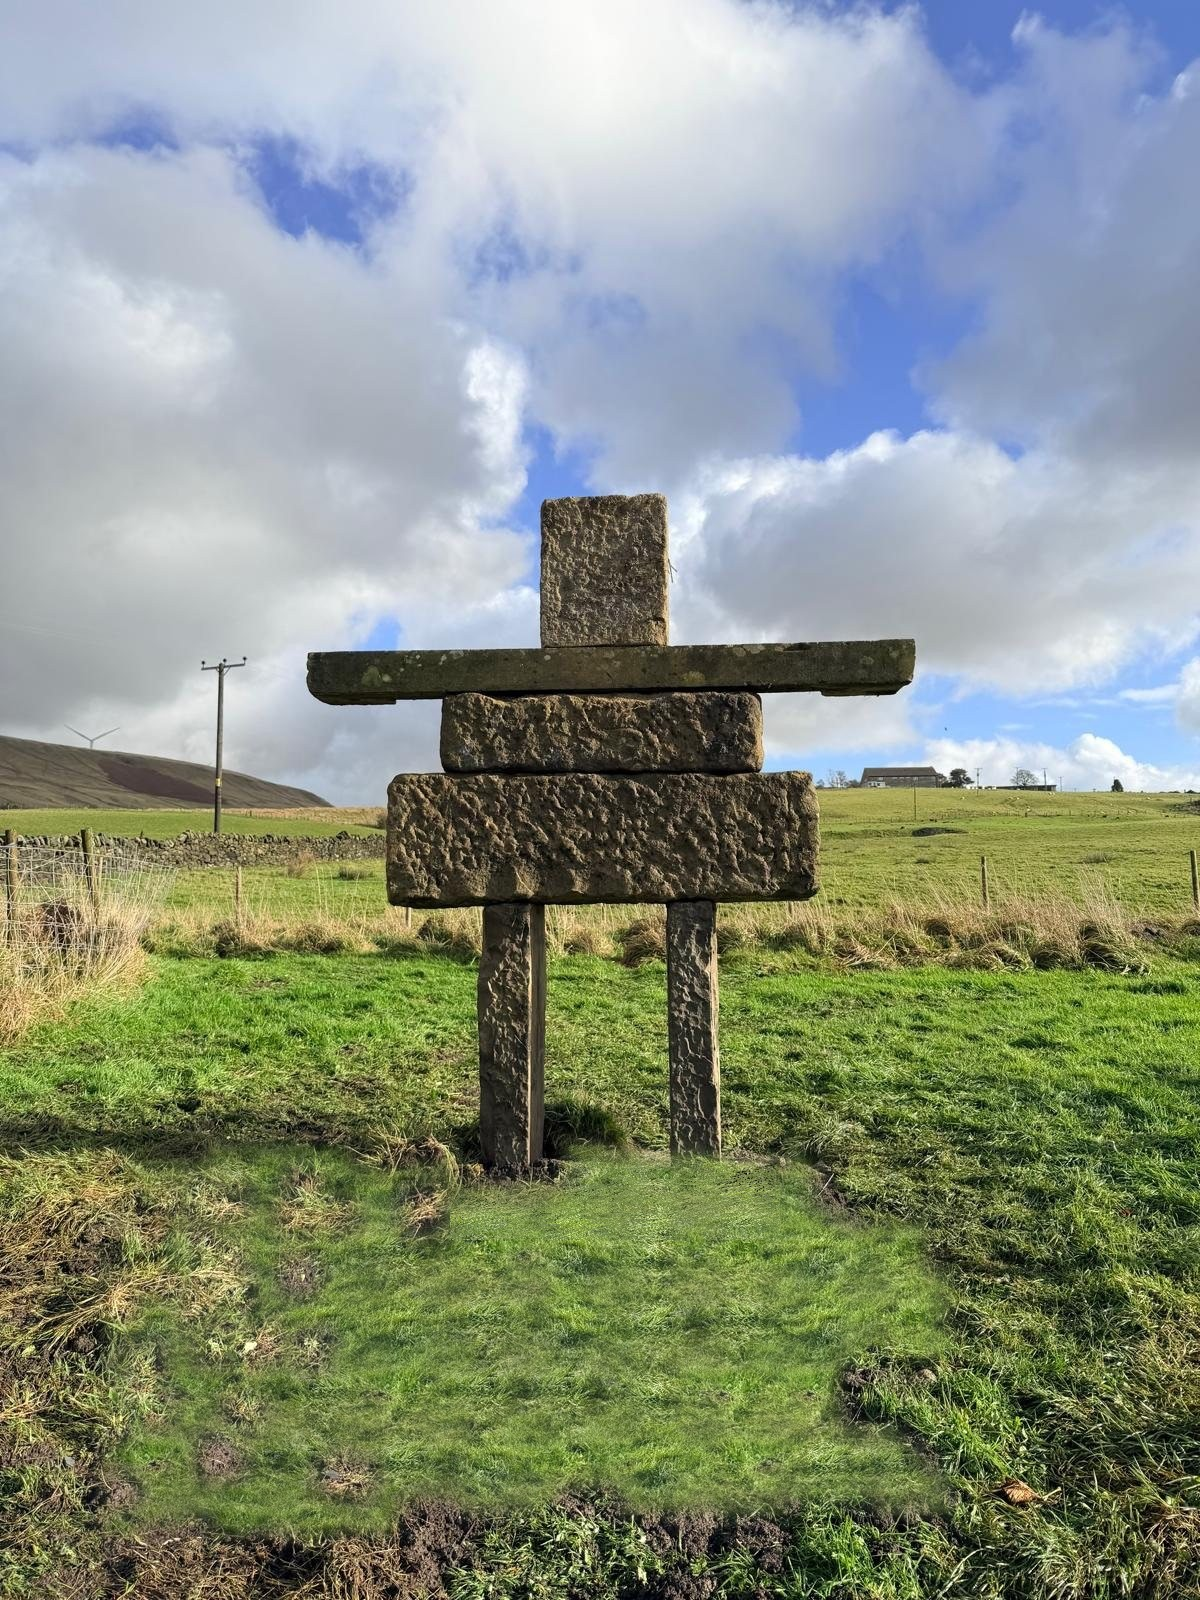
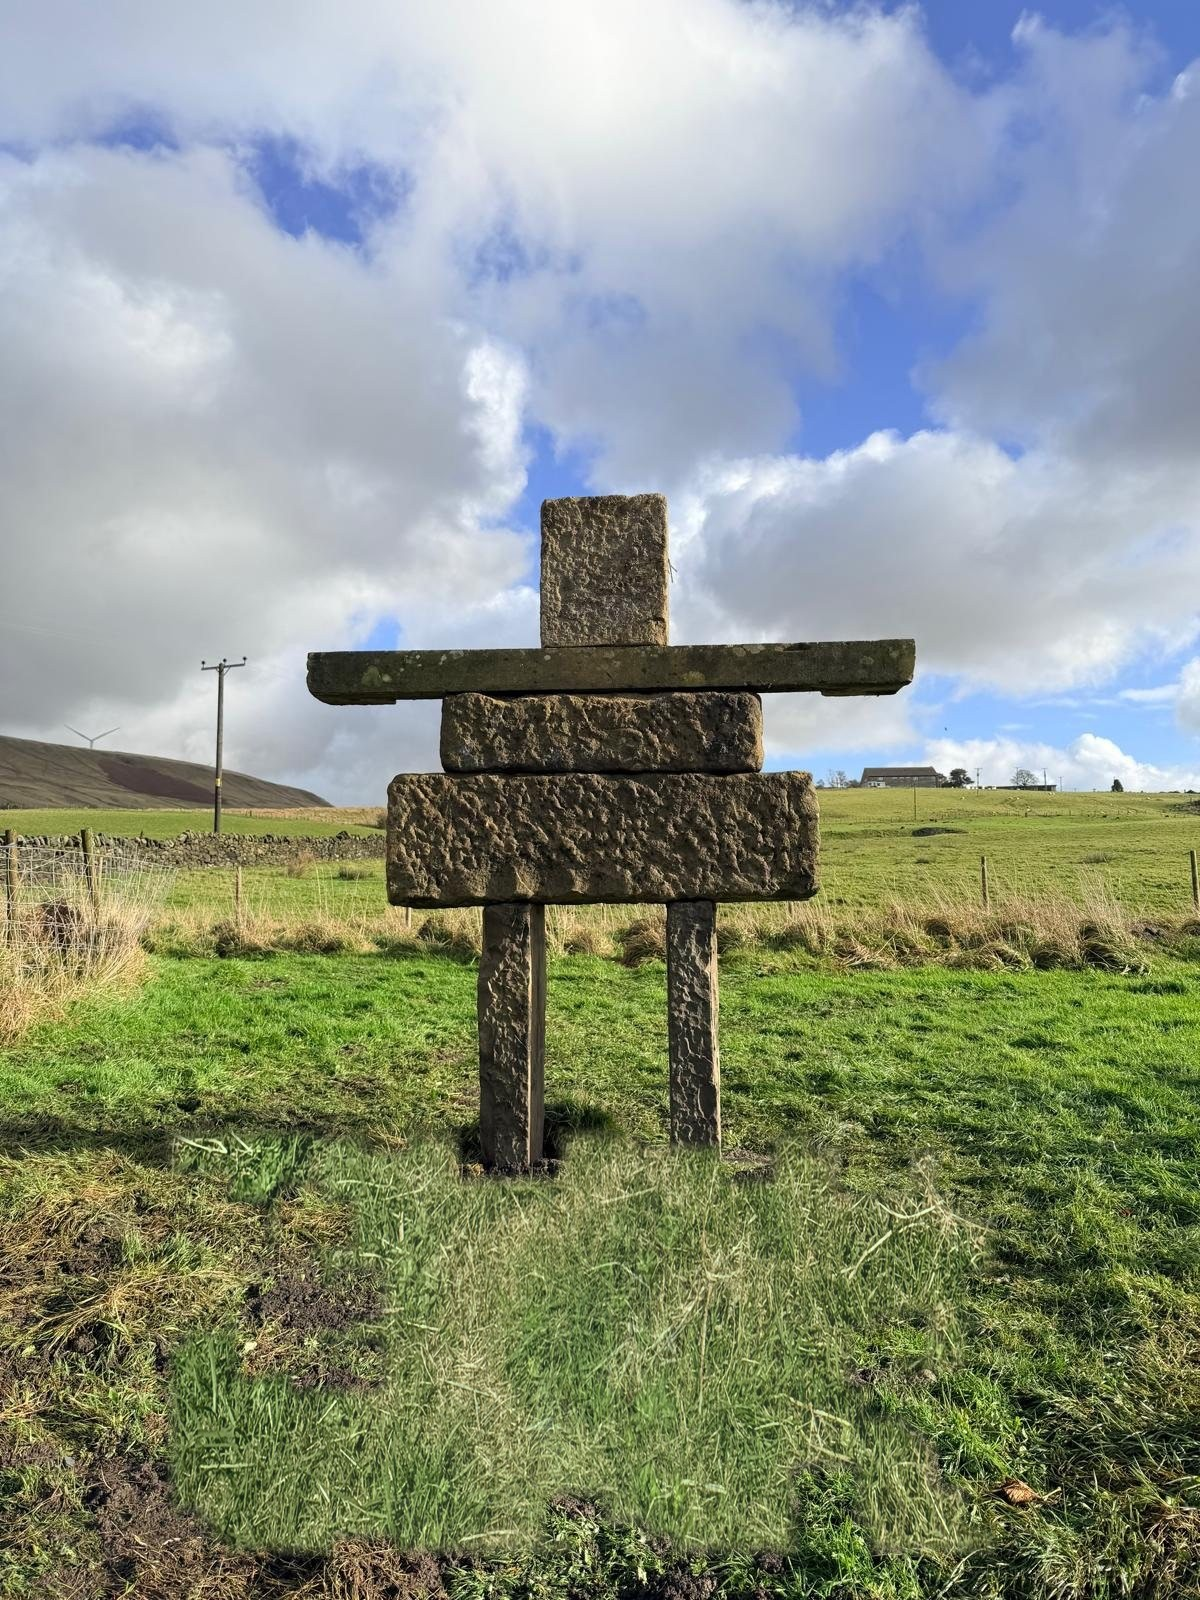
Place the figure on empty Crossbank crops and cover the front soil
Try It now opens on the mown-field crop, with the meadow crop as a second sample. Neither photo is stretched. The front photograph's turned soil is covered with grass texture from the ground-only crop, matched to the lawn light around the posts.

Changed region(s): [[0.0925, 0.6875, 0.8325, 0.9688]]

diff --git a/legacy-static/index.html b/legacy-static/index.html
@@ -265,7 +265,7 @@
       transition: background 0.2s, color 0.2s, transform 0.2s;
     }
     .upload-action:hover, .viz-button:hover { background: var(--earth); color: var(--white); transform: translateY(-1px); }
-    .viz-button.primary { background: var(--earth); color: var(--white); }
+    .viz-button[aria-pressed="true"], .viz-button.primary { background: var(--earth); color: var(--white); }
     .viz-button.primary:hover { background: var(--sky); }
     .visually-hidden { position: absolute; width: 1px; height: 1px; overflow: hidden; clip: rect(0 0 0 0); white-space: nowrap; }
     .size-options { display: grid; gap: 0.5rem; border: 0; padding: 0; }
@@ -675,7 +675,7 @@
   <section class="visualizer" id="visualizer">
     <div class="container">
       <h2 class="section-title">See It on Your Land</h2>
-      <p class="section-subtitle">The sample is one of our photographs. The figure you move is an illustration. Your own photo stays on this device and is never uploaded.</p>
+      <p class="section-subtitle">Each sample is a crop of a real photograph. The sculpture stood outside the frame. The figure is a 2D illustration for size and position, not a survey. Your own photo stays on this device and is never uploaded.</p>
       <div class="visualizer-shell">
         <div class="viz-stage" id="viz-stage">
           <canvas id="viz-canvas" width="1600" height="1000" role="img" tabindex="0" aria-label="Sample photograph with an illustrated Inukshuk. Drag its base to place it. Up moves it farther away."></canvas>
@@ -714,16 +714,22 @@
             <input id="distance-input" type="range" min="2" max="30" step="1" value="8">
           </div>
           <div class="viz-control">
-            <label class="viz-control-title" for="horizon-input">Horizon <span id="horizon-readout">40%</span></label>
-            <input id="horizon-input" type="range" min="28" max="58" step="1" value="40">
+            <label class="viz-control-title" for="horizon-input">Horizon <span id="horizon-readout">32%</span></label>
+            <input id="horizon-input" type="range" min="28" max="58" step="1" value="32">
+          </div>
+          <div class="viz-control">
+            <span class="viz-control-title">Sample crop</span>
+            <div class="viz-button-row">
+              <button class="viz-button" id="sample-mown" type="button" aria-pressed="true">Mown field</button>
+              <button class="viz-button" id="sample-meadow" type="button" aria-pressed="false">Meadow</button>
+            </div>
           </div>
           <div class="viz-button-row">
             <button class="viz-button" id="flip-btn" type="button">Flip</button>
             <button class="viz-button" id="reset-btn" type="button">Reset position</button>
-            <button class="viz-button" id="demo-btn" type="button">Use demo land</button>
             <button class="viz-button primary" id="download-btn" type="button">Download your preview</button>
           </div>
-          <p class="viz-status" id="viz-status" role="status">Sample photograph loaded. The movable figure is an illustration, not another sculpture in that photo.</p>
+          <p class="viz-status" id="viz-status" role="status">Sample crop loaded. The sculpture stood outside this frame. The figure is an illustration, not a survey.</p>
         </aside>
       </div>
     </div>
@@ -1190,13 +1196,21 @@
       const photoInput = document.getElementById('photo-input');
       const flipButton = document.getElementById('flip-btn');
       const resetButton = document.getElementById('reset-btn');
-      const demoButton = document.getElementById('demo-btn');
       const downloadButton = document.getElementById('download-btn');
+      const mownButton = document.getElementById('sample-mown');
+      const meadowButton = document.getElementById('sample-meadow');
 
       const demoLand = new Image();
       const sculpture = new Image();
       let landPhoto = demoLand;
       let photoUrl = null;
+      let usingSample = true;
+      let cropAnchor = 0.5;
+      const samples = {
+        mown: { src: 'assets/gallery/crossbank-base-9056-crop.jpg', anchor: 0.5, horizon: 0.32, x: 0.48 },
+        meadow: { src: 'assets/gallery/crossbank-base-9055-crop.jpg', anchor: 0.33, horizon: 0.38, x: 0.68 }
+      };
+      let sampleKey = 'mown';
       const distanceInput = document.getElementById('distance-input');
       const horizonInput = document.getElementById('horizon-input');
       const distanceReadout = document.getElementById('distance-readout');
@@ -1206,9 +1220,9 @@
       const SCALE_K = 0.42;
       let dragging = false;
       let flipped = false;
-      let x = canvas.width * 0.78;
+      let x = canvas.width * samples.mown.x;
       let distanceM = 8;
-      let horizonRatio = 0.4;
+      let horizonRatio = samples.mown.horizon;
       let meters = Number(sizeInputs.find(input => input.checked).dataset.meters);
       const horizonY = () => canvas.height * horizonRatio;
       const footYForDistance = (distance) => {
@@ -1235,12 +1249,13 @@
         let sourceWidth = image.naturalWidth;
         let sourceHeight = image.naturalHeight;
 
+        const anchor = usingSample ? cropAnchor : 0.5;
         if (imageRatio > canvasRatio) {
           sourceWidth = image.naturalHeight * canvasRatio;
-          sourceX = (image.naturalWidth - sourceWidth) / 2;
+          sourceX = (image.naturalWidth - sourceWidth) * anchor;
         } else {
           sourceHeight = image.naturalWidth / canvasRatio;
-          sourceY = (image.naturalHeight - sourceHeight) / 2;
+          sourceY = (image.naturalHeight - sourceHeight) * anchor;
         }
 
         ctx.drawImage(
@@ -1322,14 +1337,32 @@
         if (horizonReadout) horizonReadout.textContent = Math.round(horizonRatio * 100) + '%';
       }
 
+      function applySample(key) {
+        const sample = samples[key] || samples.mown;
+        sampleKey = samples[key] ? key : 'mown';
+        usingSample = true;
+        cropAnchor = sample.anchor;
+        horizonRatio = sample.horizon;
+        x = canvas.width * sample.x;
+        if (horizonInput) horizonInput.value = String(Math.round(sample.horizon * 100));
+        mownButton.setAttribute('aria-pressed', sampleKey === 'mown' ? 'true' : 'false');
+        meadowButton.setAttribute('aria-pressed', sampleKey === 'meadow' ? 'true' : 'false');
+        landPhoto = demoLand;
+        if (demoLand.dataset.key !== sampleKey) {
+          demoLand.dataset.key = sampleKey;
+          demoLand.src = sample.src;
+        } else draw();
+      }
+
       function resetPosition() {
-        x = canvas.width * 0.78;
+        const sample = samples[sampleKey] || samples.mown;
+        x = canvas.width * sample.x;
         distanceM = 8;
-        horizonRatio = 0.4;
+        horizonRatio = sample.horizon;
         meters = 2.75;
         flipped = false;
         if (distanceInput) distanceInput.value = '8';
-        if (horizonInput) horizonInput.value = '40';
+        if (horizonInput) horizonInput.value = String(Math.round(sample.horizon * 100));
         sizeInputs.forEach(input => { input.checked = input.value === 'Estate'; });
         tip.classList.remove('hidden');
         draw();
@@ -1361,6 +1394,7 @@
 
         if (photoUrl) URL.revokeObjectURL(photoUrl);
         photoUrl = URL.createObjectURL(file);
+        usingSample = false;
         const visitorPhoto = new Image();
         visitorPhoto.onload = () => {
           landPhoto = visitorPhoto;
@@ -1429,10 +1463,15 @@
         resetPosition();
         status.textContent = 'Estate size and position reset.';
       });
-      demoButton.addEventListener('click', () => {
-        landPhoto = demoLand;
-        resetPosition();
-        status.textContent = 'Sample photograph loaded. The movable figure is an illustration, not another sculpture in that photo.';
+      mownButton.addEventListener('click', () => {
+        applySample('mown');
+        status.textContent = 'Mown field crop loaded. The sculpture stood outside this frame. The figure is an illustration, not a survey.';
+        tip.classList.remove('hidden');
+      });
+      meadowButton.addEventListener('click', () => {
+        applySample('meadow');
+        status.textContent = 'Meadow crop loaded. The sculpture stood outside this frame. The figure is an illustration, not a survey.';
+        tip.classList.remove('hidden');
       });
       downloadButton.addEventListener('click', () => {
         canvas.toBlob(blob => {
@@ -1468,7 +1507,7 @@
 
       demoLand.onload = draw;
       sculpture.onload = draw;
-      demoLand.src = 'assets/gallery/landmark-wide.jpg';
+      applySample('mown');
       distanceInput.addEventListener('input', () => {
         distanceM = clamp(Number(distanceInput.value), NEAR_M, FAR_M);
         tip.classList.add('hidden');

diff --git a/assets/base.css b/assets/base.css
@@ -530,7 +530,7 @@ section { padding: 6rem 2rem; }
 }
 
 .upload-action:hover, .viz-button:hover { background: var(--earth); color: var(--white); transform: translateY(-1px); }
-.viz-button.primary { background: var(--earth); color: var(--white); }
+.viz-button[aria-pressed="true"], .viz-button.primary { background: var(--earth); color: var(--white); }
 .viz-button.primary:hover { background: var(--sky); }
 .size-options { display: grid; gap: 0.5rem; border: 0; padding: 0; margin: 0; }
 .size-choice { position: relative; display: block; cursor: pointer; }
